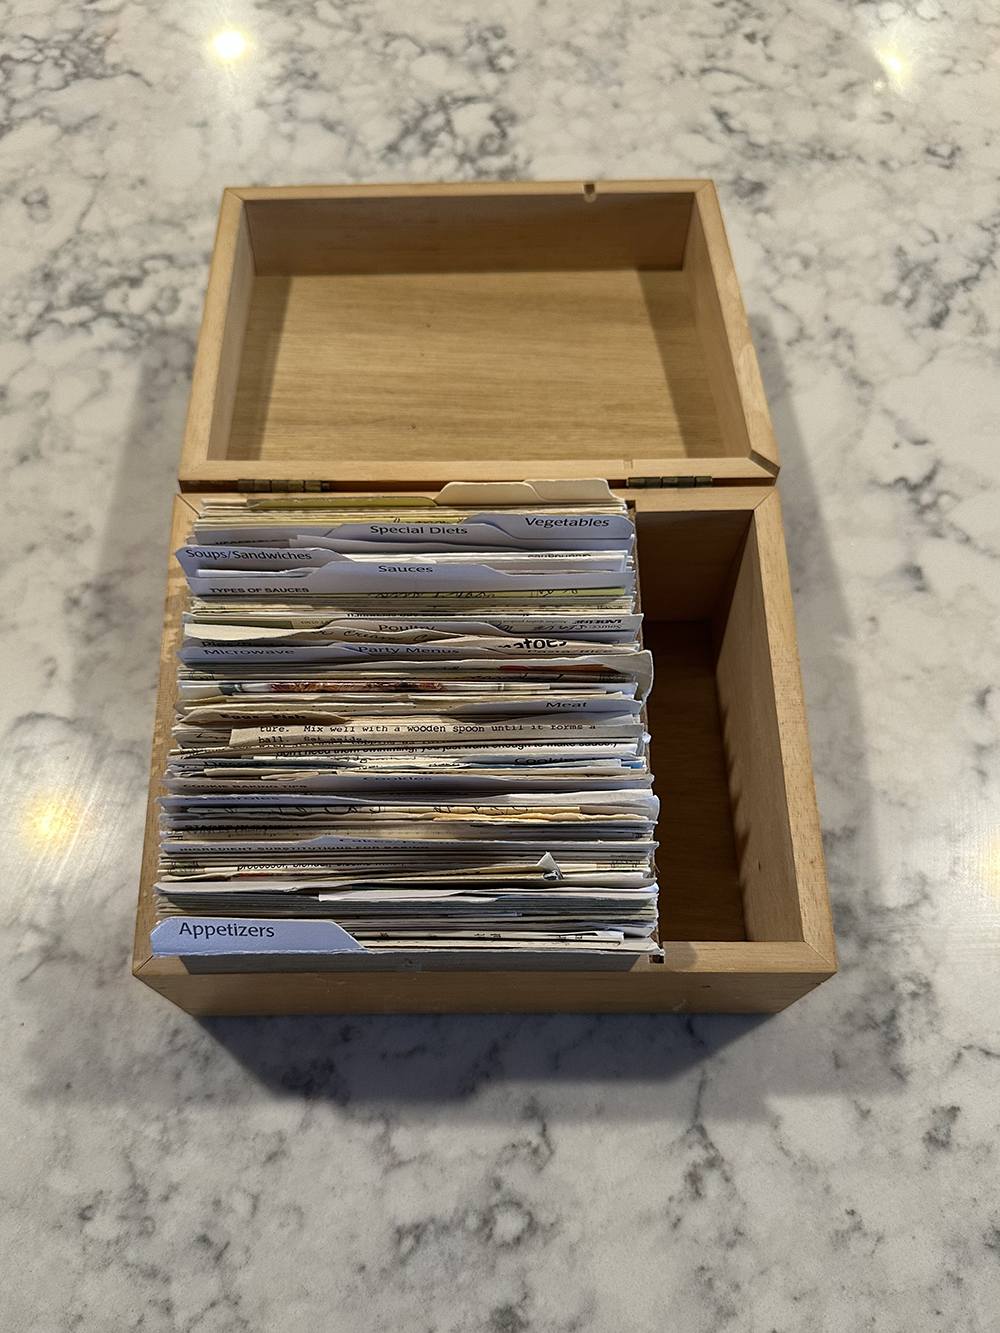
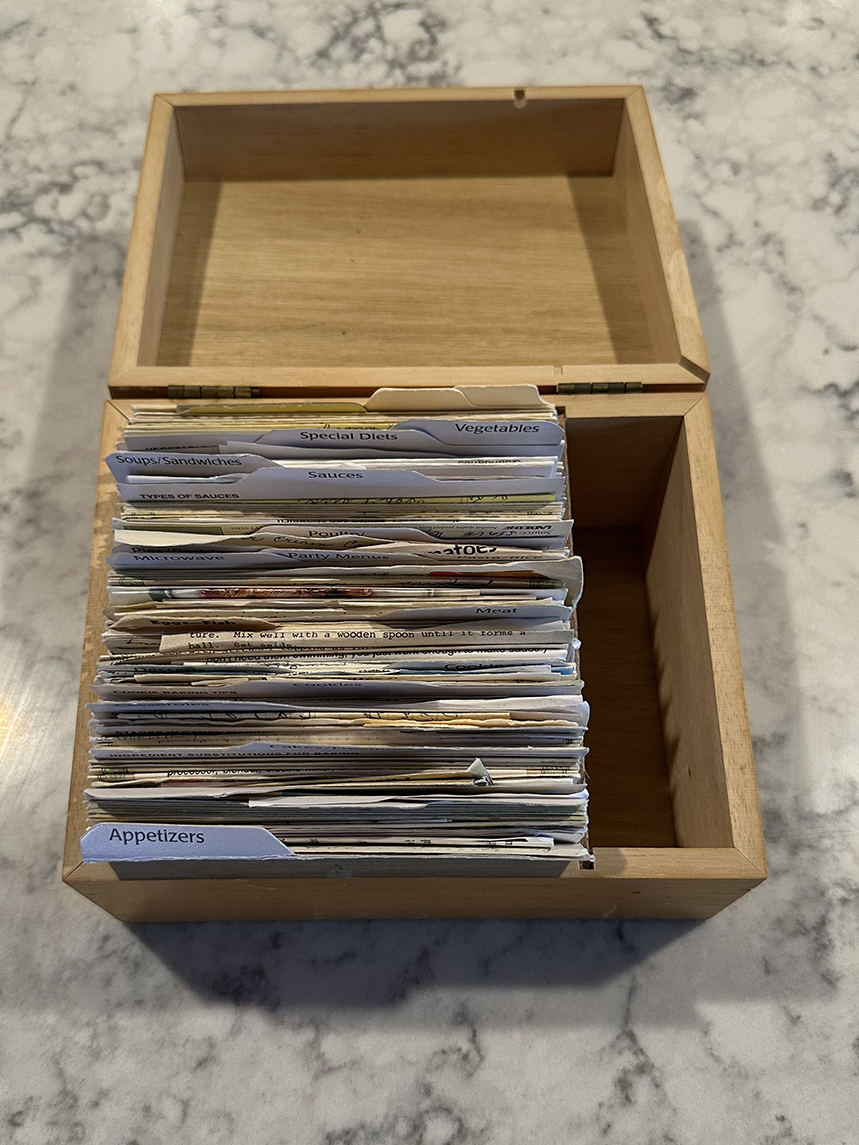
/about update

diff --git a/src/routes/about/+page.svelte b/src/routes/about/+page.svelte
@@ -1,36 +1,64 @@
-<!-- ABOUT -->
+<!-- src/routes/about/+page.svelte -->
+
 <script>
-	import { base } from '$app/paths';
 	import { fade } from 'svelte/transition';
 </script>
 
 <section class="about-section">
+	<div class="image-outer">
+		<div class="image-container">
+			<img
+				src="/photographs/categories-overhead.png"
+				alt="Overhead view of the Peterson recipe box"
+				class="recipe-collection"
+				transition:fade={{ duration: 25 }}
+			/>
+		</div>
+	</div>
+
 	<p class="about-text">
-		A nostalgic archive of handwritten and printed recipes, continuously collected and preserved by the Peterson family since the 1980s. 
-		
-		<br/>
-
-		Digitized by scanning & OCR-GPT-transcribed in 2024–2025.
-
+		A nostalgic archive of handwritten and printed recipes, continuously collected and preserved by the Peterson family since the 1980s. Digitized by scanning & OCR-GPT-transcribed in 2024–2025.
 	</p>
 </section>
 
 <style>
 	.about-section {
 		display: flex;
+		flex-direction: column;
 		justify-content: center;
 		align-items: center;
-		min-height: 70vh;
+		min-height: 85vh;
 		padding: 2rem;
 		box-sizing: border-box;
 		text-align: center;
 	}
 
+	.image-outer {
+		display: flex;
+		justify-content: center;
+		align-items: center;
+		padding: 1rem;
+	}
+
+	.image-container {
+		display: flex;
+		justify-content: center;
+		width: 100%;
+	}
+
+	.recipe-collection {
+		max-width: 415px;
+		width: 94%;
+		border-radius: 12px;
+		box-shadow: 0 2px 6px rgba(0, 0, 0, 0.15);
+		height: auto;
+	}
+
 	.about-text {
 		font-family: Arial, sans-serif;
-		font-size: 15px;
+		font-size: 14px;
 		color: black;
 		line-height: 1.5;
+		max-width: 640px;
 	}
 </style>
-
